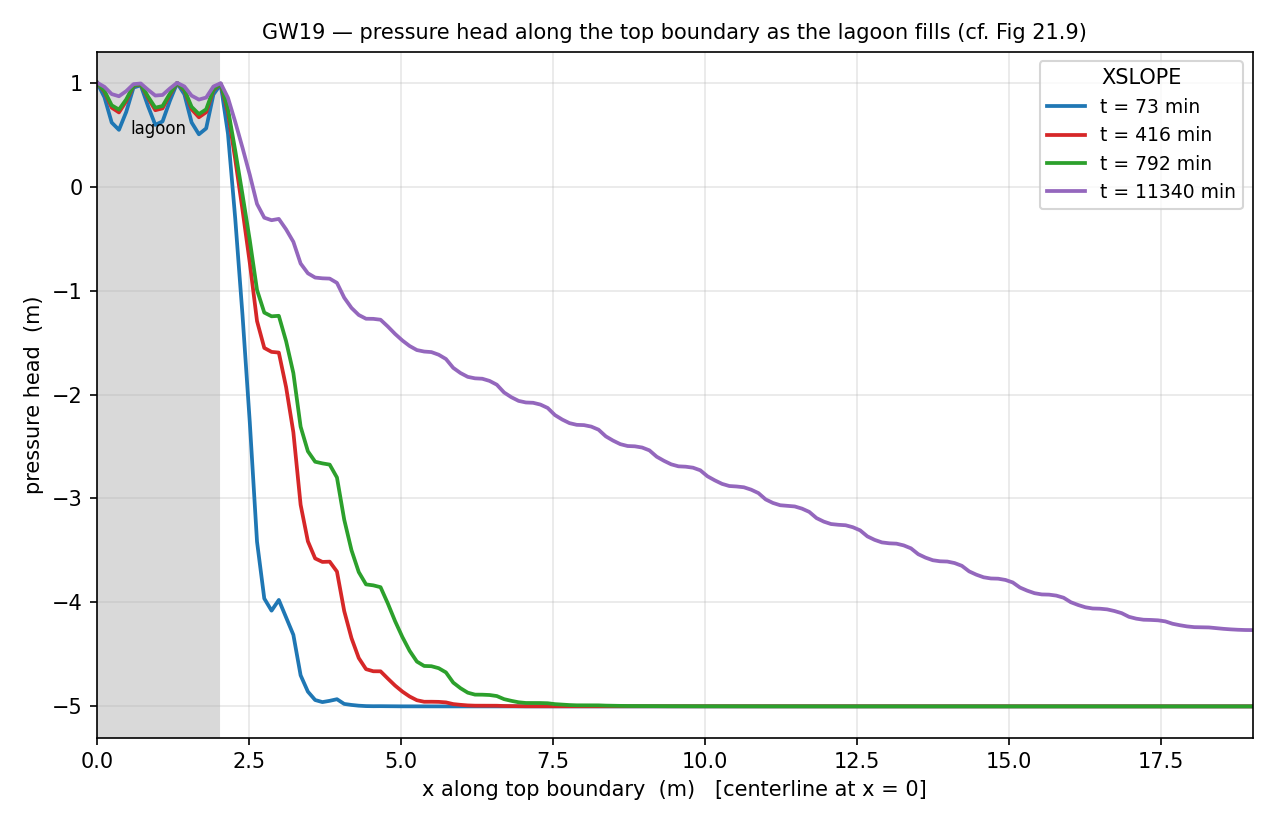
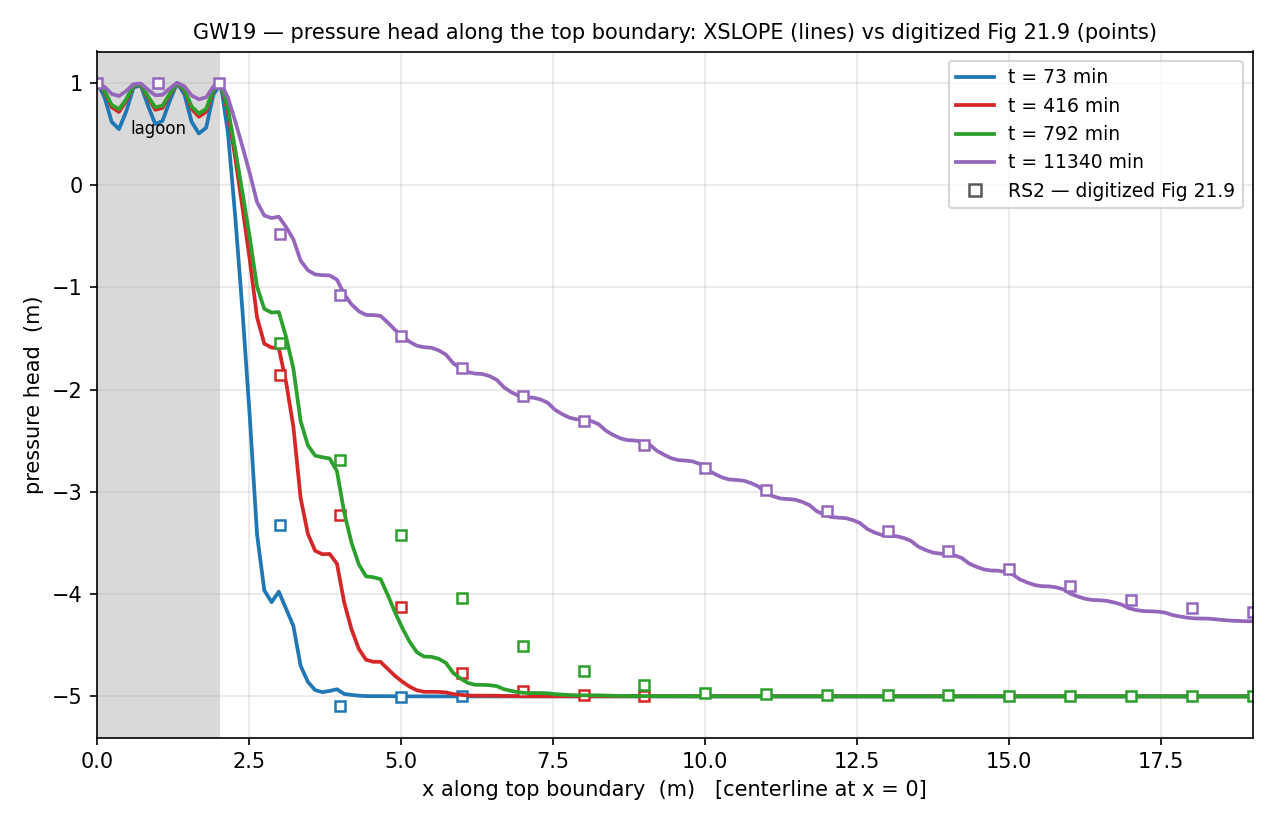
fix(gw): measure GW17/GW19/GW20 against their published figures; lock GW7 and GW19
Four rows carried "chart-only, qualitative" wording that three of the four figures
do not deserve. Each was digitized against values the model itself fixes, so the
digitization precision is measured rather than estimated.

GW17 — restated, still unlocked. The row said XSLOPE's 15 h wetting front "runs
ahead of RS2's" without a magnitude. Measured on the committed configuration:
XSLOPE's h = 7 m contour stands 11.2-25.0 m inside the upstream face across five
elevations, where RS2's entire wetting ramp ends 1.5-3.3 m inside it. An order of
magnitude, not a detail; closing it means moving ~20 m of front. Also recorded:
Fig 19-4's colour ramp is INVERTED relative to Fig 19-5 on the same page (red at
the head-0 toe drain, blue at the head-10 face, both reversed in 19-5), so reading
19-4 with 19-5's key puts the front at the wrong end of the dam.

GW19 — locked. Fig 21.9 calibrates itself: its far-field markers read -5.000 (the
initial water table) and its lagoon markers +0.996 (the 1 m of ponded water), which
fixes the digitization to ~0.005 m. Against RS2's markers at 20 top-boundary
stations the near-steady (11340 min) profile agrees to 0.066 m rms / 0.168 m worst
— ~1% of the driving head — and five stations of it are now locked. The three early
frames run 0.32-0.41 m rms with XSLOPE's mound BEHIND RS2's from x = 4 outward and
ahead of it at x = 3: steeper and narrower, not uniformly fast or slow. Row goes
from no-lock to green.
[…]

diff --git a/benchmarks/rocscience/make_gw_transient_figures.py b/benchmarks/rocscience/make_gw_transient_figures.py
@@ -181,6 +181,46 @@ _GW18_FIG205 = {
 }
 
 
+# Digitized RS2 ("Phase 2") markers from the groundwater manual's Fig 21.9, pressure
+# head along the top boundary at the four report times. Calibrated against two values
+# the model fixes: the far-field markers read -5.000 (the initial water table, 5 m
+# below the top boundary) and the lagoon markers +0.996 (the 1 m of ponded water), so
+# the read-off is good to ~0.005 m. Entries missing at a time are markers hidden under
+# a later-drawn series, not missing data.
+_GW19_FIG219 = {
+    73.0: ([3, 4, 5, 6], [-3.328, -5.098, -5.005, -4.998]),
+    416.0: ([3, 4, 5, 6, 7, 8, 9],
+            [-1.856, -3.225, -4.124, -4.770, -4.952, -4.984, -4.995]),
+    792.0: ([3, 4, 5, 6, 7, 8, 9, 10, 11, 12, 13, 14, 15, 16, 17, 18, 19],
+            [-1.544, -2.685, -3.427, -4.039, -4.508, -4.751, -4.892, -4.963,
+             -4.977, -4.984, -4.987, -4.991, -4.998, -4.999, -4.999, -4.998,
+             -4.999]),
+    11340.0: ([0, 1, 2, 3, 4, 5, 6, 7, 8, 9, 10, 11, 12, 13, 14, 15, 16, 17, 18, 19],
+              [0.996, 0.996, 0.996, -0.478, -1.072, -1.473, -1.786, -2.064,
+               -2.308, -2.547, -2.763, -2.980, -3.183, -3.382, -3.574, -3.755,
+               -3.925, -4.053, -4.136, -4.178]),
+}
+
+# Digitized RS2 ("Phase 2") markers from Fig 22.7, total head down the manual's own
+# query line (Fig 22.6: vertical, at x = 1.6, the crest break). The chart's depth axis
+# is measured from the crest, so y = 1.0 - depth. Calibration check: the 4.6 s markers
+# at the base read 0.302-0.305 against the model's initial total head of 0.300.
+_GW20_FIG227_Y = [1.0, 0.95, 0.90, 0.85, 0.80, 0.75, 0.70, 0.65, 0.60, 0.55, 0.50,
+                  0.45, 0.40, 0.35, 0.30, 0.25, 0.20, 0.15, 0.10, 0.05, 0.00]
+_GW20_FIG227 = {
+    4.6: [0.3915, 0.3846, 0.3805, 0.3750, 0.3720, 0.3695, 0.3650, 0.3320, 0.3080,
+          0.3060, 0.3060, 0.3050, 0.3050, 0.3050, 0.3030, 0.3031, 0.3030, 0.3030,
+          0.3020, 0.3020, 0.3020],
+    31.0: [0.6050, 0.5991, 0.5940, 0.5880, 0.5840, 0.5815, 0.5770, 0.4949, 0.4180,
+           0.4150, 0.4120, 0.4090, 0.4080, 0.4050, 0.4040, 0.4025, 0.4025, 0.4010,
+           0.3999, 0.4000, 0.4000],
+    208.0: [0.8620, 0.8555, 0.8500, 0.8445, 0.8401, 0.8360, 0.8320, 0.7300, 0.6280,
+            0.6240, 0.6210, 0.6170, 0.6149, 0.6120, 0.6100, 0.6102, 0.6060, 0.6060,
+            0.6051, 0.6050, 0.6050],
+}
+_GW20_QUERY_X = 1.6                       # the manual's own query line (Fig 22.6)
+
+
 def _toe_y(x):
     return 12.0 - (x - 28.0) / 2.0          # downstream 2:1 face, x in [28,52]
 
@@ -257,10 +297,10 @@ def fig_gw17():
 
 
 def fig_gw19():
-    """Pressure head along the top boundary (y = 10) vs x at the four report times
-    — the digitizable Fig 21.9 analog: the lagoon-leak pressure mound spreading from
-    the centerline (x = 0) toward the far field as the lined pond fills.  The lagoon
-    footprint (x in [0,2]) is shaded; the four lock stations are marked."""
+    """Pressure head along the top boundary (y = 10) vs x at the four report times:
+    XSLOPE (lines) against the digitized Fig 21.9 RS2 markers (points). The
+    lagoon-leak pressure mound spreads from the centerline (x = 0) toward the far
+    field as the lined pond fills; the lagoon footprint (x in [0,2]) is shaded."""
     nodes, sol = _solve('gw019', 0.8, frac=0.25)
     times = [73.0, 416.0, 792.0, 11340.0]
     xs = np.linspace(0.0, 19.0, 160)
@@ -269,16 +309,20 @@ def fig_gw19():
         h = np.asarray(sol['frames'][transient_frame_index(sol, t)]['head'])
         ph = np.array([_sample(nodes, h, x, 10.0) - 10.0 for x in xs])
         ax.plot(xs, ph, '-', color=c, lw=1.8, label=f't = {t:g} min')
+        px, pp = _GW19_FIG219[t]
+        ax.plot(px, pp, 's', color=c, ms=4.5, mfc='white', mew=1.2)
+    ax.plot([], [], 's', color='0.35', mfc='white', mew=1.2,
+            label='RS2 — digitized Fig 21.9')
     ax.axvspan(0.0, 2.0, color='0.85', zorder=0)
     ax.text(1.0, 0.9, 'lagoon', ha='center', va='top', fontsize=8,
             transform=ax.get_xaxis_transform())
     ax.set_xlabel('x along top boundary  (m)   [centerline at x = 0]')
     ax.set_ylabel('pressure head  (m)')
-    ax.set_title('GW19 — pressure head along the top boundary as the lagoon fills '
-                 '(cf. Fig 21.9)', fontsize=10)
+    ax.set_title('GW19 — pressure head along the top boundary: XSLOPE (lines) vs '
+                 'digitized Fig 21.9 (points)', fontsize=10)
     ax.set_xlim(0, 19)
     ax.grid(alpha=0.3)
-    ax.legend(fontsize=9, loc='upper right', title='XSLOPE')
+    ax.legend(fontsize=9, loc='upper right')
     fig.tight_layout()
     fig.savefig(os.path.join(OUT, 'gw019.png'), dpi=150)
     plt.close(fig)
@@ -286,27 +330,46 @@ def fig_gw19():
 
 
 def fig_gw20():
-    """Total head along a vertical query line at x = 2.0 (through the perched zone
-    above the fine lens) vs elevation at the three report times — the Fig 22.7
-    analog: as rainfall switches on, the perched mound builds above the low-k fine
-    lens (shaded y in [0.6,0.7]) and the water table rises from its initial el 0.3."""
+    """Total head down the manual's own query line (Fig 22.6: vertical at x = 1.6,
+    the crest break) vs elevation at the three report times: XSLOPE (lines) against
+    the digitized Fig 22.7 RS2 markers (points), with XSLOPE's steady field dashed.
+    As rainfall switches on the perched mound builds above the low-k fine lens
+    (shaded, y in [0.6,0.7]) and the water table rises from its initial el 0.3; RS2
+    is at the steady profile by 208 s where XSLOPE reaches it near 800 s."""
     nodes, sol = _solve('gw020', 0.04, frac=0.25)
     times = [4.6, 31.0, 208.0]
-    ys = np.linspace(0.2, 1.0, 160)
+    ys = np.linspace(0.0, 1.0, 160)
     fig, ax = plt.subplots(figsize=(7.5, 5.5))
     for c, t in zip(_COLORS, times):
         h = np.asarray(sol['frames'][transient_frame_index(sol, t)]['head'])
-        th = np.array([_sample(nodes, h, 2.0, yy) for yy in ys])
+        th = np.array([_sample(nodes, h, _GW20_QUERY_X, yy) for yy in ys])
         ax.plot(th, ys, '-', color=c, lw=1.8, label=f't = {t:g} s')
+        ax.plot(_GW20_FIG227[t], _GW20_FIG227_Y, 's', color=c, ms=4.5,
+                mfc='white', mew=1.2)
+    # XSLOPE's own steady field on the same line — the state both codes march to
+    sd7 = load_slope_data(os.path.join(SRC, 'gw007.xlsx'))
+    mesh7 = build_mesh_from_polygons(get_material_polygons(sd7), 0.04, 'tri3')
+    seep7 = build_seep_data(mesh7, sd7)
+    with contextlib.redirect_stdout(io.StringIO()):
+        from xslope.seep import run_seepage_analysis
+        sol7 = run_seepage_analysis(seep7, tol=1e-5, max_iter=1000)
+    h7 = np.asarray(sol7['head'])
+    th7 = np.array([_sample(np.asarray(seep7['nodes']), h7, _GW20_QUERY_X, yy)
+                    for yy in ys])
+    ax.plot(th7, ys, '--', color='0.35', lw=1.4, label='XSLOPE — steady (GW7)')
+    ax.plot([], [], 's', color='0.35', mfc='white', mew=1.2,
+            label='RS2 — digitized Fig 22.7')
     ax.axhspan(0.6, 0.7, color='0.85', zorder=0)
     ax.text(0.02, 0.65, 'fine lens', ha='left', va='center', fontsize=8,
             transform=ax.get_yaxis_transform())
     ax.set_xlabel('total head  (m)')
-    ax.set_ylabel('elevation  y  (m)   [query line at x = 2.0]')
-    ax.set_title('GW20 — total head along the query line as rainfall perches on the '
-                 'lens (cf. Fig 22.7)', fontsize=9.5)
+    ax.set_ylabel('elevation  y  (m)   [query line at x = 1.6]')
+    ax.set_title('GW20 — total head down the Fig 22.6 query line: XSLOPE (lines) vs '
+                 'digitized Fig 22.7 (points)', fontsize=9.5)
     ax.grid(alpha=0.3)
-    ax.legend(fontsize=9, loc='upper right', title='XSLOPE')
+    # lower right is the one empty quadrant: every curve sits at head < 0.65 below
+    # the lens and the steady branch only reaches 0.87 above y = 0.7
+    ax.legend(fontsize=9, loc='lower right')
     fig.tight_layout()
     fig.savefig(os.path.join(OUT, 'gw020.png'), dpi=150)
     plt.close(fig)

diff --git a/docs/verification/rocscience_groundwater.md b/docs/verification/rocscience_groundwater.md
@@ -46,17 +46,19 @@ closed-form (or recomputed series) solutions:
 - **18** — transient flow through the GW6 earth dam (reservoir raised 4 m → 10 m, no drain),
   against the digitized Fig 20.5 toe-slope profile.
 - **17** — the same dam with a toe drain, against the Fig 19-5 total-head contours (qualitative).
-- **19** — transient flow below a lined lagoon as the pond is filled, against the Fig 21.9
-  top-boundary pressure profile (qualitative).
+- **19** — transient flow below a lined lagoon as the pond is filled, against the digitized
+  Fig 21.9 top-boundary pressure profile.
 - **20** — transient flow through the GW7 layered slope as rainfall switches on, against the
-  Fig 22.7 query-line profile (qualitative).
+  digitized Fig 22.7 query-line profile.
 
 Problems **17–20** add a Mualem–van Genuchten unsaturated-conductivity fit — 17/18
 also a reservoir boundary applied only where the face is submerged, 19/20 a stepped pond head
-and a stepped rainfall flux. Their published targets are figures rather than closed forms, so
-those four comparisons are qualitative. One modelling difference applies to all of them:
-Slide2 defines independent conductivity and water-content curves, while XSLOPE fits a single
-van Genuchten curve to both, which shifts transient timing slightly.
+and a stepped rainfall flux. Their published targets are figures rather than closed forms;
+18, 19 and 20 publish line or marker plots on labeled axes and are compared numerically
+against digitizations of them, while 17 publishes contour plates and stays qualitative. One
+modelling difference applies to all four: Slide2 defines independent conductivity and
+water-content curves, while XSLOPE fits a single van Genuchten curve to both, which shifts
+transient timing — measurably, and in different directions on different problems.
 
 The transient problems compare the head and pressure field as it evolves, not a factor of safety: a
 transient head field does not change an FS on its own (rainfall-triggered failure would
@@ -105,7 +107,7 @@ used across this section (**built**, *covered*, *partial*, *planned*, *blocked*,
 | [4](#gw4) | 🟡 | Steady unconfined flow through earth dam | Phreatic surface within 1–2% of the Kozeny basic parabola over the dam body · drain-tip height y₁ 0.50 vs parabola 0.480 (+4.2%) · vs Slide 0.442 (+13.1%) | the published pair itself spreads 9% |
 | [5](#gw5) | 🟢 | Unsaturated flow behind an embankment | Q = 8.167×10⁻¹¹ vs the one-dimensional closed form *k·b·i* = 8.0×10⁻¹¹ (+2.1%; +1.8% on the finest mesh) · solved pressure head inside Fig 5-4's own 1 m colour bands at 46 of 49 grid points (worst miss 0.025 m) | **built**; chart-keyed target, locked on XSLOPE's own field |
 | [6](#gw6) | <span class="nodata">⊘</span> | Steady-state seepage through saturated–unsaturated soils | Pressure head along line 1-1: cases 2 and 5 reproduce the Slide/F&R curve almost exactly · cases 1 and 3 sit ~0.3–0.5 m high (mesh- and fit-insensitive; the published Slide/Ref[1] themselves scatter ~1.5 m near the crest on case 3) | **built** (4 of 5 cases); chart-only target, locked on XSLOPE's own field |
-| [7](#gw7) | <span class="nodata">⊘</span> | Seepage within layered slope | Water table at the toe el 0.30 vs the stated Slide / Rulon & Freeze 0.3 m (0.00 m) · perched zone and slope-face spring reproduced · Q = q·L = 1.68×10⁻⁴ locked | **built** (caveat); chart-only targets, so only the flowrate is locked |
+| [7](#gw7) | 🟢 | Seepage within layered slope | Total head along the manual's own query line within 0.005 m rms / 0.013 m worst of the Fig 22.7 steady markers over 21 stations (≈1% of the profile's head range) · water table at the toe el 0.30 vs the stated Slide / Rulon & Freeze 0.3 m (0.00 m) · perched zone and slope-face spring reproduced · Q = q·L = 1.68×10⁻⁴ locked | **built**; problem 7's own figures are chart-only, so the numeric target comes from problem 22's Fig 22.7 steady frame |
 | [8](#gw8) | 🔴 | Flow through ditch-drained soils | Flux boundary exact — total inflow = *q*·*L*, the confined response matching the closed form to six figures · water table at the symmetry edge 0.025 m vs Slide / Gureghian ≈0.25 m (≈10× too small — the published contours cannot be reproduced from the manual's printed inputs) | **built** (discrepancy); only the flowrate is locked |
 | [9](#gw9) | 🟢 | Seepage through dam | Dam 1: Q = 1.379×10⁻³ vs Slide 1.378×10⁻³ m³/(min·m) (+0.1%) · dam 2: Q = 4.29×10⁻⁶ vs Slide 4.23×10⁻⁶ m³/(s·m) (+1.4%) | **built** (both dams); body k read from Bowles (1984) Fig E9-2b, not the Chapuis caption |
 | [10](#gw10) | 🟢 | Steady unconfined flow, van Genuchten permeability | Q = 6.070×10⁻⁵ vs Slide 6.066×10⁻⁵ (+0.1%) · vs Clement 6.076×10⁻⁵ (−0.1%) · phreatic exit el. 4.87 vs Slide 5.0 (−0.13 m) · vs Clement 4.8 (+0.07 m) | |
@@ -115,10 +117,10 @@ used across this section (**built**, *covered*, *partial*, *planned*, *blocked*,
 | [14](#gw14) | <span class="nodata">⊘</span> | Unsaturated soil column | | *blocked* — the closed form assumes an exponential conductivity law XSLOPE does not implement |
 | [15](#gw15) | 🟢 | 1-D consolidation, uniform initial excess pore pressure | Isochrones within ≈0.3% of u₀ of the Terzaghi Eq 17.3 closed form | **built** (both cases) |
 | [16](#gw16) | 🟢 | Pore pressure dissipation of stratified soil | Within ≈0.3–0.5% of u₀ of the recomputed Pyrah 1996 two-layer eigen-series | **built** (3 cases) |
-| [17](#gw17) | <span class="nodata">⊘</span> | Transient seepage, earth fill dam with toe drain | The near-steady field (locked at 500 h) reproduces the Fig 19-5 total-head contours qualitatively — reservoir 10 → drain 0, phreatic drawn to the toe · the 15 h transient frame is figured but not locked | **built** (near-steady); contour-only target, locked as a regression guard |
+| [17](#gw17) | <span class="nodata">⊘</span> | Transient seepage, earth fill dam with toe drain | The near-steady field (locked at 500 h) reproduces the Fig 19-5 total-head contours qualitatively — reservoir 10 → drain 0, phreatic drawn to the toe · at 15 h XSLOPE's *h* = 7 front stands 11.2–25.0 m inside the upstream face against RS2's 1.5–3.3 m, so that frame is figured but not locked | **built** (near-steady); contour-only target, locked as a regression guard |
 | [18](#gw18) | 🟡 | Transient seepage through an earth fill dam | Toe-slope total head at t = 0.6 h and near-steady within ≈0.2 m of the digitized Fig 20.5 profile | **built** (both frames); SWCC-mapping timing caveat on the early frame |
-| [19](#gw19) | <span class="nodata">⊘</span> | Transient seepage below a lagoon | Pressure head along the top boundary (Fig 21.9) is a chart-only target, so XSLOPE's own solved heads at interior stations are locked as a regression guard at the four report times (73 / 416 / 792 / 11340 min). | **built** (regression); SWCC-mapping timing caveat |
-| [20](#gw20) | <span class="nodata">⊘</span> | Transient seepage in a layered slope | Total head along a query line (Fig 22.7) is chart-only, so XSLOPE's own solved heads are locked as a regression guard at 4.6 / 31 / 208 s; the perched mound builds on the fine-sand lens toward the steady [GW7](#gw7) result. | **built** (regression); SWCC-mapping timing caveat |
+| [19](#gw19) | 🟢 | Transient seepage below a lagoon | Near-steady (11340 min) pressure head along the top boundary within 0.066 m rms / 0.168 m worst of the digitized Fig 21.9 markers over 20 stations — ≈1% of the driving head · early frames 0.32–0.41 m rms, XSLOPE's mound narrower and *behind* RS2's | **built** (all four frames); the near-steady frame is locked against the vendor profile, the early frames carry the SWCC-mapping timing caveat |
+| [20](#gw20) | <span class="nodata">⊘</span> | Transient seepage in a layered slope | RS2 reaches the steady query-line profile of Fig 22.7 by 208 s and XSLOPE around 800 s: the two differ by 0.253 m rms along the line at 208 s and by 0.005 m once both are steady · XSLOPE's own solved heads at 4.6 / 31 / 208 s are locked as a regression guard | **built** (all three frames); the vendor-facing lock for this geometry is [GW7](#gw7)'s steady profile, and the transient frames carry a measured ≈4× timing offset |
 | [21](#gw21) | 🟢 | Transient seepage through a fully confined aquifer | Within ≈0.02 ft of the Ferris erfc closed form at 600 hr | **built** (both cases) |
 
 </div>
@@ -275,9 +277,9 @@ band at **46 of 49** grid points spanning the whole domain including the downstr
 The three exceptions miss a band edge by 0.003, 0.008 and 0.025 m — an order of magnitude
 inside the ±0.5 m the 1 m banding itself resolves.
 
-The published target is a chart, so — as the methodology note allows for GW6/GW7 — the lock
-is XSLOPE's own flowrate and total-head field, with the Fig 5-4 band comparison above
-standing as the vendor check.
+The published target is a chart, so — as the methodology note sets out for a chart target —
+the lock is XSLOPE's own flowrate and total-head field, with the Fig 5-4 band comparison
+above standing as the vendor check.
 
 ![gw005: mesh and solved heads](images/gw005.png)
 
@@ -290,10 +292,10 @@ standing as the vendor check.
 
 This manual problem runs the same 12 m dam through five cases. The published target in every
 case is the pressure-head profile along **line 1-1** (the crest centerline, x = 26) — a chart
-curve (Figs 6.6 / 6.9 / 6.14 / 6.23) with no tabulated value — so, as the methodology note
-allows for GW6/GW7, each case locks XSLOPE's own flowrate and total-head field. The case-2/3/5
-material and boundary data were read verbatim from the vendor RS2 groundwater models
-(`groundwater #006_02/03/05.slw` in the RS2 Groundwater zip): case 2's `condx:1 condy:0.111111`
+curve (Figs 6.6 / 6.9 / 6.14 / 6.23) with no tabulated value and no numeric key — so, as the
+methodology note sets out for a chart target, each case locks XSLOPE's own flowrate and
+total-head field. The case-2/3/5 material and boundary data were read verbatim from the
+vendor RS2 groundwater models (`groundwater #006_02/03/05.slw` in the RS2 Groundwater zip): case 2's `condx:1 condy:0.111111`
 (kₕ = 9e-7, k_v = 1e-7), case 3's 100×-lower core over the mesh's material-2 footprint (a
 rectangle x ∈ [24, 28], y ∈ [0, 10]), and case 5's crest-plus-downstream-slope seepage face.
 
@@ -411,15 +413,36 @@ manual reports.
 | water table at the toe | el 0.30 | 0.3 m stated (0.00 m) |
 | Q, m³/s per m | 1.680×10⁻⁴ | q·L = 1.68×10⁻⁴ (0.0%) |
 
-Every published target is a chart curve — the water table (Fig 7.4) and the total-head
-profiles along lines 1-1 and 2-2 (Figs 7.7, 7.8) — with no tabulated number, the same
-situation the methodology note flags for GW6/GW7. So only the flowrate is locked
-(Q = q·L, exact by construction on the flux boundary), with a three-station head
-regression guarding the solved field. The conductivity fit shifts the unsaturated detail
-but not the flowrate or the perched-table topology.
+Problem 7's own published targets are all chart curves — the water table (Fig 7.4) and
+the total-head profiles along lines 1-1 and 2-2 (Figs 7.7, 7.8) — with no tabulated
+number. The conductivity fit shifts the unsaturated detail but not the flowrate or the
+perched-table topology.
+
+**The steady profile has a numeric target, in a later chapter.** Manual problem 22
+([GW20](#gw20)) re-runs this identical slope transiently, and its Fig 22.7 plots total
+head along a vertical query line at *x* = 1.6 — the crest break, from the base up to the
+crest — with marker values for RS2 at 4.6, 31 and 208 s. The 208 s frame has reached
+steady state, which is this problem. The chart also calibrates itself: its 4.6 s markers
+at the base read 0.302–0.305 against the model's initial total head of 0.300, so the
+digitization is good to ≈0.005 m. Along that query line XSLOPE's steady field matches
+RS2's markers to **0.005 m rms and 0.013 m at worst over 21 stations** — about 1% of the
+0.56 m head range along the profile — and puts the step across the fine lens in the right
+place:
+
+| $y$ on the query line ($x=1.6$) | 1.00 | 0.85 | 0.70 | 0.65 | 0.60 | 0.30 | 0.00 |
+|---|---|---|---|---|---|---|---|
+| XSLOPE total head | 0.868 | 0.850 | 0.827 | 0.743 | 0.632 | 0.614 | 0.607 |
+| Fig 22.7, RS2 at 208 s | 0.862 | 0.845 | 0.832 | 0.730 | 0.628 | 0.610 | 0.605 |
+
+The same chart's Ref [1] (Fredlund & Rahardjo) curve runs a little above both — ≈0.878 near
+the crest and ≈0.617 near the base, against RS2's 0.862 and 0.605 — so XSLOPE's 0.868 and
+0.607 sit between the two sources, closer to RS2. Five stations of the profile are locked
+alongside the flowrate (Q = q·L, exact by construction on the flux boundary) and the
+three-station regression that guards the solved field.
 
 <!-- test: file=files/rocscience_gw/gw007.xlsx, type=seep, target_size=0.04, max_iter=1000, expected_flowrate=1.680e-04, tolerance=0.02, benchmark=GW7-q -->
 <!-- test: file=files/rocscience_gw/gw007.xlsx, type=seep_head, target_size=0.04, max_iter=1000, points=1:0.1:0.518;2:0.1:0.642;2.2:0.3:0.657, tolerance=0.02, benchmark=GW7-h -->
+<!-- test: file=files/rocscience_gw/gw007.xlsx, type=seep_head, target_size=0.04, max_iter=1000, points=1.6:0.05:0.608;1.6:0.3:0.614;1.6:0.6:0.632;1.6:0.8:0.844;1.6:1:0.868, tolerance=0.02, benchmark=GW7-q22 -->
 
 ![gw007: mesh and solved heads](images/gw007.png)
 
@@ -765,10 +788,22 @@ descending to the drain. Its own solved heads at four interior stations are lock
 regression guard.
 
 The early 15 h transient frame is computed and figured but **not** locked against the
-vendor: the vendor's steep Custom $k(\psi)$ curve suppresses flow through the initially-dry
-downstream far more than our vG fit's $k_r$ floor, so XSLOPE's 15 h wetting front runs ahead
-of RS2's — the SWCC-mapping timing caveat, larger here than in GW18 because the 15 h frame
-is deep into the transient rather than near either steady end-member.
+vendor, and the gap is an order of magnitude rather than a detail. Sampling the 15 h frame
+along five elevations, XSLOPE's $h=7$ m contour stands **11.2 to 25.0 m** inside the
+upstream face — 25.0 m at el 0.5, falling to 11.2 m at el 8 — where RS2's entire wetting
+ramp ends **1.5 to 3.3 m** inside it. At 15 h Fig 19-4 shows a reservoir raise that has
+barely entered the fill, while XSLOPE's field is already close to stratified (total head
+9.28–9.67 at $x=16.2$ at every elevation). The vendor's steep Custom $k(\psi)$ curve
+suppresses flow through the initially dry fill far more than the van Genuchten fit's $k_r$
+floor does; the direction is the expected one, but closing the difference would mean moving
+about 20 m of front, not 2. This is the SWCC-mapping timing caveat at its largest — the
+15 h frame sits deep in the transient, where [GW18](#gw18)'s early frame is still close to
+the shared initial steady state.
+
+*Reading Fig 19-4: its colour ramp runs the opposite way to Fig 19-5's on the same page.
+At the toe drain, held at total head 0, Fig 19-4 is red where Fig 19-5 is blue; just inside
+the submerged upstream face, held at 10, Fig 19-4 is blue where Fig 19-5 is red. Read with
+Fig 19-5's key, Fig 19-4 places the 15 h front at the wrong end of the dam.*
 
 ![gw017: near-steady total-head field vs Fig 19-5](images/gw017.png)
 
@@ -846,13 +881,35 @@ far field) gives a uniform water table at el 5, then the lagoon steps to total h
 no-flow. Report times are the vendor stage schedule: 73 / 416 / 792 / 11340 min.
 
 The published target is **pressure head along the top boundary** (Fig 21.9, vs Ref [1]
-Fredlund & Rahardjo) plus pressure-head contours at the four times — chart-only, no tabulated
-value. XSLOPE reproduces the expected behaviour: at 73 min the leak is confined near the
-lagoon, and by 11340 min the pressure mound has spread across the whole top boundary toward
-the far-field water table (the field below). XSLOPE's own solved heads at three interior
-stations are locked as a regression guard. This problem carries the recurring **SWCC-mapping
-caveat**: the single vG curve stands in for the vendor's independent conductivity and
-water-content tables, which shifts the transient *timing*.
+Fredlund & Rahardjo) plus pressure-head contours at the four times. Fig 21.9 has no tabulated
+companion, but it is a marker plot on labeled axes carrying two anchors that fix its
+calibration independently of any reading: the far-field markers sit at −5.000 ± 0.005 m,
+exactly the initial water table 5 m below the top boundary, and the lagoon markers at
++0.996, exactly the 1 m of ponded water. Digitized against those anchors it resolves to
+≈0.005 m — an order of magnitude finer than the ≈0.2 m read-off precision Fig 20.5 supports
+for [GW18](#gw18).
+
+**The near-steady frame.** Against RS2's own markers at 20 stations along the top boundary,
+XSLOPE's 11340 min profile agrees to **0.066 m rms and 0.168 m at worst** over a pressure-head
+range of more than 5 m — about 1% of the driving head, with the single largest deviation at
+*x* = 3 m, the first station off the lagoon edge. Five top-boundary stations of that frame are
+locked.
+
+| $x$ (m) | 3 | 6 | 10 | 14 | 19 |
+|---|---|---|---|---|---|
+| XSLOPE pressure head | −0.31 | −1.80 | −2.75 | −3.61 | −4.27 |
+| Fig 21.9 (RS2) | −0.48 (+0.17) | −1.79 (−0.02) | −2.76 (+0.01) | −3.57 (−0.03) | −4.18 (−0.09) |
+
+**The early frames.** These do not track as closely — 0.32 / 0.41 / 0.34 m rms at 73 / 416 /
+792 min — and the disagreement has a definite shape: XSLOPE's mound sits *behind* RS2's,
+lower at every station from *x* = 4 m outward by up to 0.88 m, while running *higher* than
+RS2 at *x* = 3 m, the station nearest the lagoon. The mound is steeper and narrower early on
+rather than uniformly fast or uniformly slow. That is the **SWCC-mapping caveat** with a
+measured direction: one van Genuchten curve stands in for the vendor's independent
+conductivity and water-content tables and so drives the relative permeability and the
+moisture capacity together, which shifts the transient timing. It closes as the field
+approaches steady state, where the retention-curve shape drops out — hence the near-steady
+frame carrying the lock.
 
 ![gw019: pressure head along the top boundary as the lagoon fills](images/gw019.png)
 
@@ -860,6 +917,7 @@ water-content tables, which shifts the transient *timing*.
 <!-- test: file=files/rocscience_gw/gw019.xlsx, type=tseep_head, target_size=0.8, time=416, max_head_change_frac=0.25, points=1:8:7.421;3:8:6.399;1:5:5.443, tolerance=0.15, benchmark=GW19-t416 -->
 <!-- test: file=files/rocscience_gw/gw019.xlsx, type=tseep_head, target_size=0.8, time=792, max_head_change_frac=0.25, points=1:8:7.934;3:8:7.130;1:5:6.133, tolerance=0.15, benchmark=GW19-t792 -->
 <!-- test: file=files/rocscience_gw/gw019.xlsx, type=tseep_head, target_size=0.8, time=11340, max_head_change_frac=0.25, points=1:8:9.478;3:8:9.048;1:5:8.625, tolerance=0.15, benchmark=GW19-t11340 -->
+<!-- test: file=files/rocscience_gw/gw019.xlsx, type=tseep_head, target_size=0.8, time=11340, max_head_change_frac=0.25, points=3:10:9.690;6:10:8.198;10:10:7.249;14:10:6.392;19:10:5.734, tolerance=0.15, benchmark=GW19-top-t11340 -->
 
 ### GW20: Transient seepage in a layered slope {#gw20}
 
@@ -878,12 +936,34 @@ fine lens and the perched mound builds toward the steady GW7 result. Report time
 vendor schedule: 4.6 / 31 / 208 s (the medium-sand diffusion time over 1 m is $\approx14$ s,
 so the 208 s frame has essentially reached the steady perched state).
 
-The published target is **total head along a query line** (Fig 22.7, vs Ref [1]) plus
-total-head contours at the three times — chart-only. The query-line profile below shows the
-head gradient concentrating across the low-permeability lens as the mound develops — the
-perching physics that GW7 verified at steady state. XSLOPE's own solved heads at four interior
-stations are locked as a regression guard; the early frames carry the SWCC-mapping timing
-caveat.
+The published target is **total head along a query line**: Fig 22.6 draws it vertical at
+$x=1.6$ m — the crest break — running the full 1 m from the base to the crest, and Fig 22.7
+plots RS2 and Ref [1] against depth along it at the three times. That chart has no tabulated
+companion but calibrates itself: its 4.6 s markers at the base of the line read 0.302–0.305
+against the model's initial total head of 0.300, so the digitization is good to ≈0.005 m.
+
+**RS2 is at steady state by 208 s; XSLOPE arrives around 800 s.** RS2's 208 s markers sit on
+the steady field — XSLOPE's own steady solve of the identical slope ([GW7](#gw7)) reproduces
+them to 0.005 m rms over 21 stations, which is where GW7's numeric lock now comes from.
+XSLOPE's *transient* march is not there at 208 s: it is still 0.25 m rms below along the
+whole line. It reaches the profile between 400 s and 800 s and then holds it:
+
+| frame | rms Δ vs the Fig 22.7 RS2 markers | worst |
+|---|---|---|
+| $t$ = 4.6 s | 0.039 m | 0.077 m |
+| $t$ = 31 s | 0.167 m | 0.268 m |
+| $t$ = 208 s | 0.253 m | 0.287 m |
+| $t$ = 400 s | 0.047 m | 0.064 m |
+| $t$ = 800 s and beyond | 0.005 m | 0.013 m |
+
+So the end state is right and the approach to it is about four times slower. That is the
+**SWCC-mapping caveat** measured rather than asserted: one van Genuchten curve driving the
+relative permeability and the moisture capacity together stands in for the vendor's two
+independent tables, a substitution that can change the rate at which the perched mound fills
+but not the state it fills to — which is exactly the shape of the measurement, 0.25 m apart
+at 208 s and 0.005 m apart at steady state. XSLOPE's own solved heads at four interior
+stations are locked at the three published report times as a regression guard on the
+transient frames themselves; the vendor-facing lock for this geometry is GW7's.
 
 ![gw020: total head along the query line as rainfall perches on the lens](images/gw020.png)
 
@@ -998,5 +1078,14 @@ nodes), and `type=tseep_head` — the transient sibling of `seep_head`, which me
 head the identical way but pulls the field from the frame of a transient solve at a given save
 time `t` (`time=…`, an entry the solver lands on exactly). A `type=tseep_head` tag names a file
 carrying a v18 `tseep` sheet; optional `dt_max` / `max_head_change_frac` / `theta` tune the
-stepper. Where a problem's published answer is itself a chart curve (GW6/GW7), a
-tolerance-banded profile lock is planned but not yet implemented.
+stepper.
+
+Where a problem's published answer is itself a chart, how it is handled depends on what the
+chart resolves. A contour plate with a numeric key gives a band per point, and the comparison
+is reported as the fraction of sampled points falling inside the vendor's own band (GW5's
+Fig 5-4); a plate without one supports only a qualitative reading (GW17's Fig 19-4). A line or
+marker plot on labeled axes is digitized and compared numerically — and where the model itself
+fixes a value the chart must show (an initial condition, a boundary head), that value calibrates
+the digitization, so its precision is a measured quantity rather than an estimate (GW7's
+Fig 22.7, GW18's Fig 20.5, GW19's Fig 21.9). In every chart-target case the tag locks XSLOPE's
+own solved field; the vendor comparison is reported in the row text with its precision.
